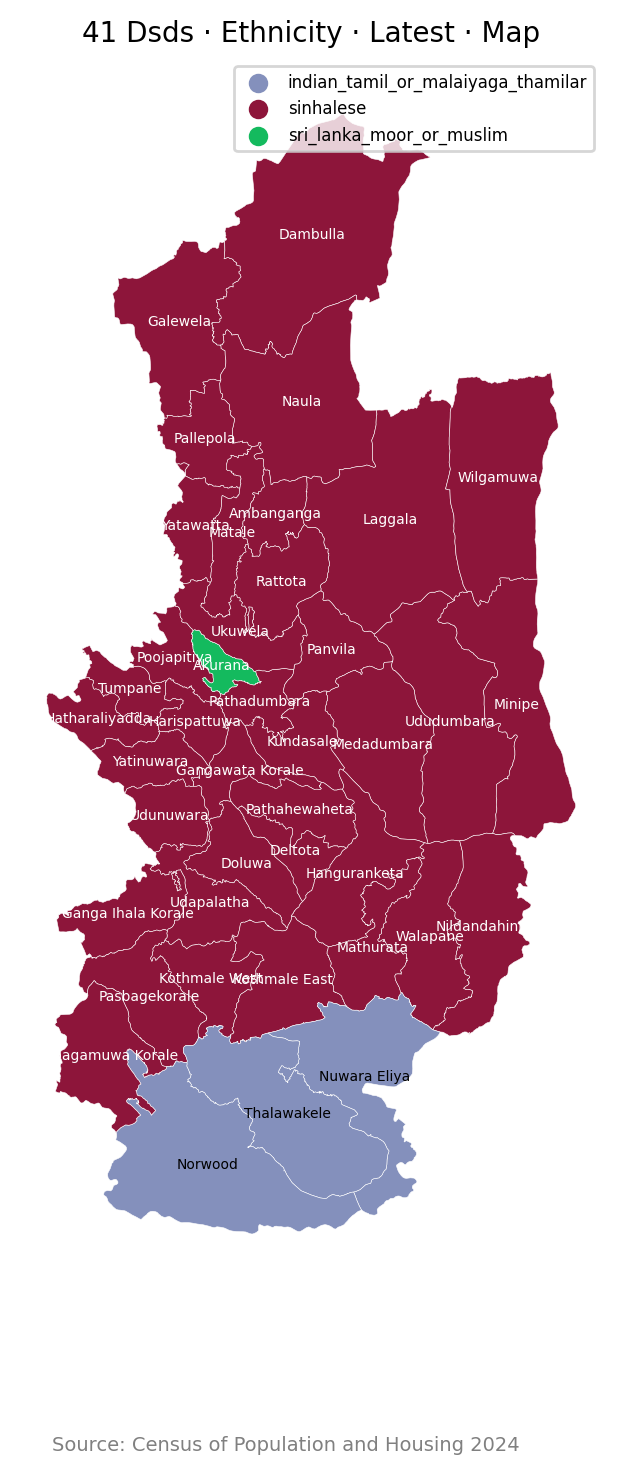
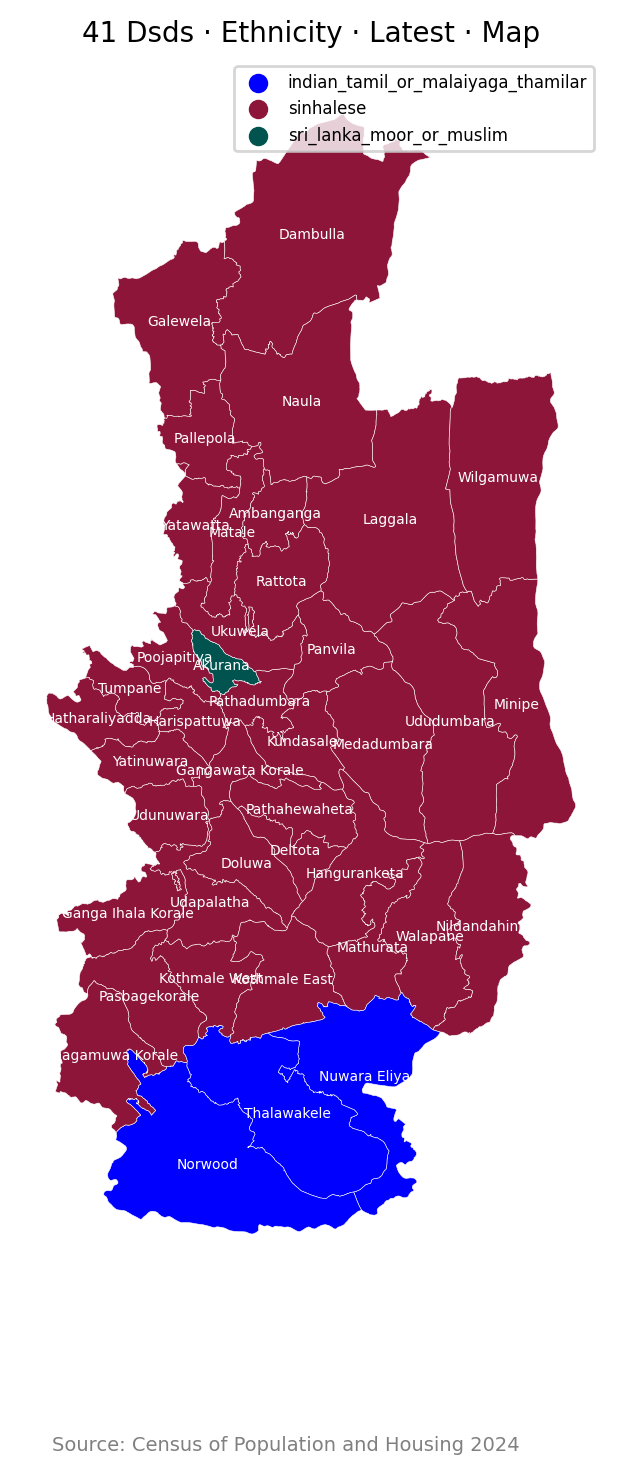
Refactor color mapping in MapUtils to use COLOR class for improved maintainability

Changed region(s): [[0.1527, 0.6554, 0.7026, 0.8426], [0.3055, 0.4057, 0.4277, 0.4681], [0.3971, 0.0312, 0.4277, 0.1248]]

diff --git a/src/lanka_data/how/MapUtils.py b/src/lanka_data/how/MapUtils.py
@@ -14,37 +14,53 @@ log = Log("MapUtils")
 random.seed(0)
 
 
+class COLOR:
+    GOLD = "#FFBE29"
+    DARK_ORANGE = "#EB7400"
+    TEAL = "#00534E"
+    BLUE = "#0000FF"
+    MAROON = "#800080"
+    GRAY = "#808080"
+    DARK_RED = "#8D153A"
+    GREEN = "#008000"
+    RED = "#FF0000"
+    ORANGE = "#FFA500"
+
+
 class MapUtils:
     DELIM_TITLE = " · "
     MAX_REGIONS_TO_LABEL = 100
     MAX_LEGEND_ITEMS = 7
     COLOR_IDX = {
         # Religion
-        "buddhist": "#FFBE29",
-        "hindu": "#EB7400",
-        "islam": "#00534E",
-        "other_christian": "#0000FF",
-        "roman_catholic": "#800080",
-        "other": "#808080",
+        "buddhist": COLOR.GOLD,
+        "hindu": COLOR.DARK_ORANGE,
+        "islam": COLOR.TEAL,
+        "other_christian": COLOR.BLUE,
+        "roman_catholic": COLOR.MAROON,
+        "other": COLOR.GRAY,
         # Ethnicity
-        "sinhalese": "#8D153A",
-        "sl_tamil": "#EB7400",
-        "ind_tamil": "#0000FF",
-        "sl_moor": "#00534E",
-        "malay": "#008000",
+        "sinhalese": COLOR.DARK_RED,
+        "sl_tamil": COLOR.DARK_ORANGE,
+        "sri_lanka_tamil": COLOR.DARK_ORANGE,
+        "ind_tamil": COLOR.BLUE,
+        "indian_tamil_or_malaiyaga_thamilar": COLOR.BLUE,
+        "sl_moor": COLOR.TEAL,
+        "sri_lanka_moor_or_muslim": COLOR.TEAL,
+        "malay": COLOR.GREEN,
         # Political Party
-        "SLPP": "#8D153A",
-        "UPFA": "#0000FF",
-        "PA": "#0000FF",
-        "SLFP": "#0000FF",
-        "NPP": "#FF0000",
-        "SJB": "#008000",
-        "UNP": "#008000",
-        "NDF": "#008000",
-        "IND9": "#FFA500",
-        "SLMP": "#800080",
-        "ACTC": "#FFA500",
-        "ITAK": "#FFA500",
+        "SLPP": COLOR.DARK_RED,
+        "UPFA": COLOR.BLUE,
+        "PA": COLOR.BLUE,
+        "SLFP": COLOR.BLUE,
+        "NPP": COLOR.RED,
+        "SJB": COLOR.GREEN,
+        "UNP": COLOR.GREEN,
+        "NDF": COLOR.GREEN,
+        "IND9": COLOR.ORANGE,
+        "SLMP": COLOR.MAROON,
+        "ACTC": COLOR.ORANGE,
+        "ITAK": COLOR.ORANGE,
     }
 
     @staticmethod